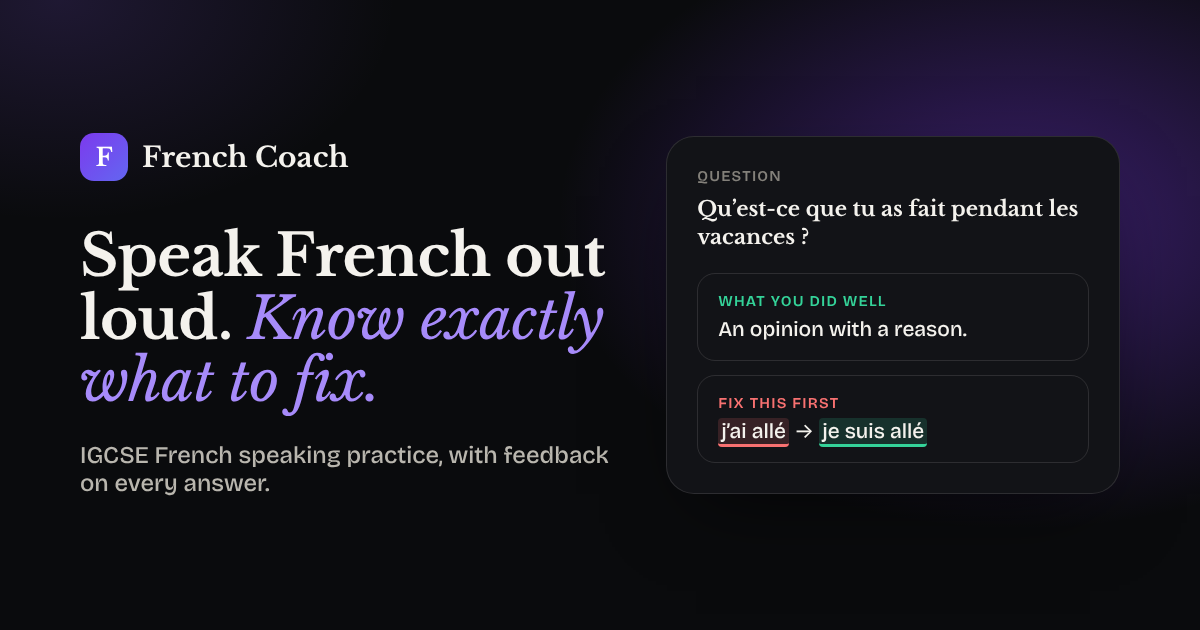
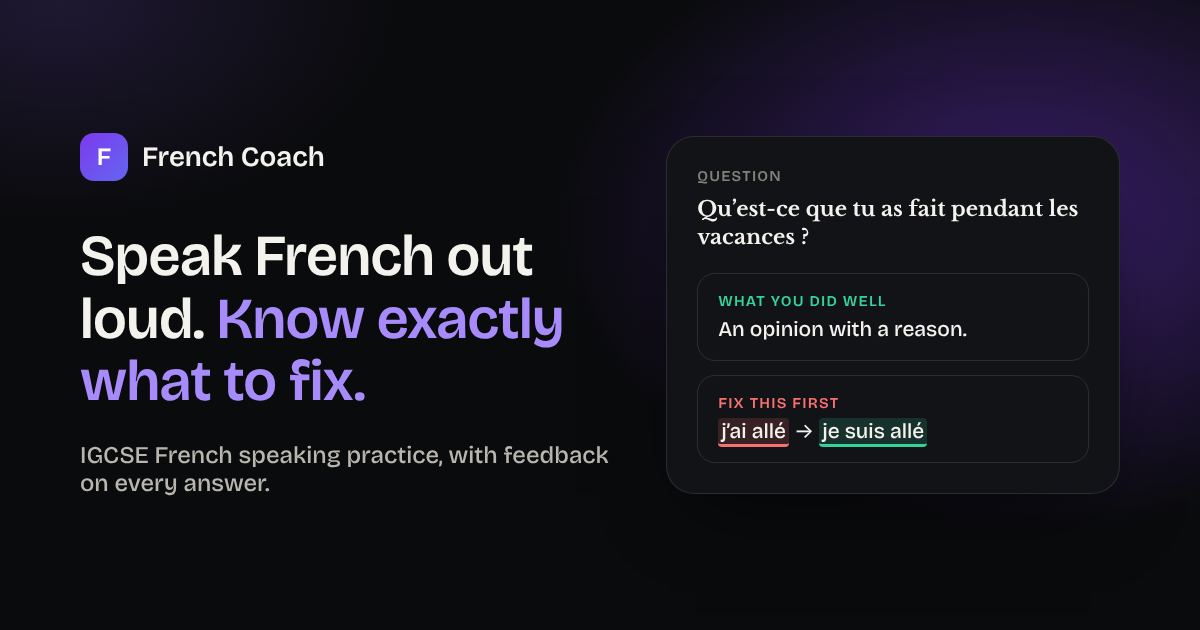
Use the design-system font for the hero tagline and OG image
Drop the faux-italic on the landing hero accent line (Bricolage has no italic)
and set the OG image's headline and wordmark in Bricolage; the serif is
reserved for Exam mode.

Claude-Session: https://claude.ai/code/session_0186yMnBH9k8sRXKn4H1TrnL

Changed region(s): [[0.0617, 0.3619, 0.5242, 0.6635], [0.1233, 0.2111, 0.3083, 0.2714], [0.0617, 0.2111, 0.0925, 0.2714]]

diff --git a/scripts/seo/og-image.html b/scripts/seo/og-image.html
@@ -36,11 +36,11 @@
     width: 48px; height: 48px; border-radius: 14px;
     background: linear-gradient(135deg, #7C3AED, #6366F1);
     display: flex; align-items: center; justify-content: center;
-    font-family: 'Libre Baskerville', serif; font-weight: 700; font-size: 25px; color: #fff;
+    font-family: 'Bricolage Grotesque', system-ui, sans-serif; font-weight: 700; font-size: 25px; color: #fff;
   }
-  .name { font-family: 'Libre Baskerville', serif; font-weight: 700; font-size: 28px; }
-  h1 { font-family: 'Libre Baskerville', serif; font-weight: 700; font-size: 58px; line-height: 1.08; letter-spacing: -0.01em; }
-  h1 em { font-weight: 400; color: #A78BFA; }
+  .name { font-family: 'Bricolage Grotesque', system-ui, sans-serif; font-weight: 600; font-size: 28px; }
+  h1 { font-family: 'Bricolage Grotesque', system-ui, sans-serif; font-weight: 600; font-size: 58px; line-height: 1.08; letter-spacing: -0.01em; }
+  h1 em { font-style: normal; color: #A78BFA; }
   .sub { margin-top: 28px; font-size: 24px; color: #B9B6AE; }
   .card {
     flex: 0.85; background: #121317; border: 1px solid rgba(244, 242, 237, 0.12);

diff --git a/src/screens/landing/Hero.tsx b/src/screens/landing/Hero.tsx
@@ -14,7 +14,7 @@ export function Hero() {
           <Eyebrow>IGCSE French · Speaking exam practice</Eyebrow>
           <h1 className="font-display text-[40px] sm:text-5xl md:text-6xl leading-[1.05] mb-6">
             Speak French out loud.{' '}
-            <span className="italic font-normal" style={{ color: 'var(--mk-accent)' }}>Know exactly what to fix.</span>
+            <span style={{ color: 'var(--mk-accent)' }}>Know exactly what to fix.</span>
           </h1>
           <p className="text-base md:text-lg leading-relaxed mb-8 max-w-lg" style={{ color: 'var(--mk-ink-muted)' }}>
             Answer exam-style speaking questions, get clear feedback on every answer, and sit full
